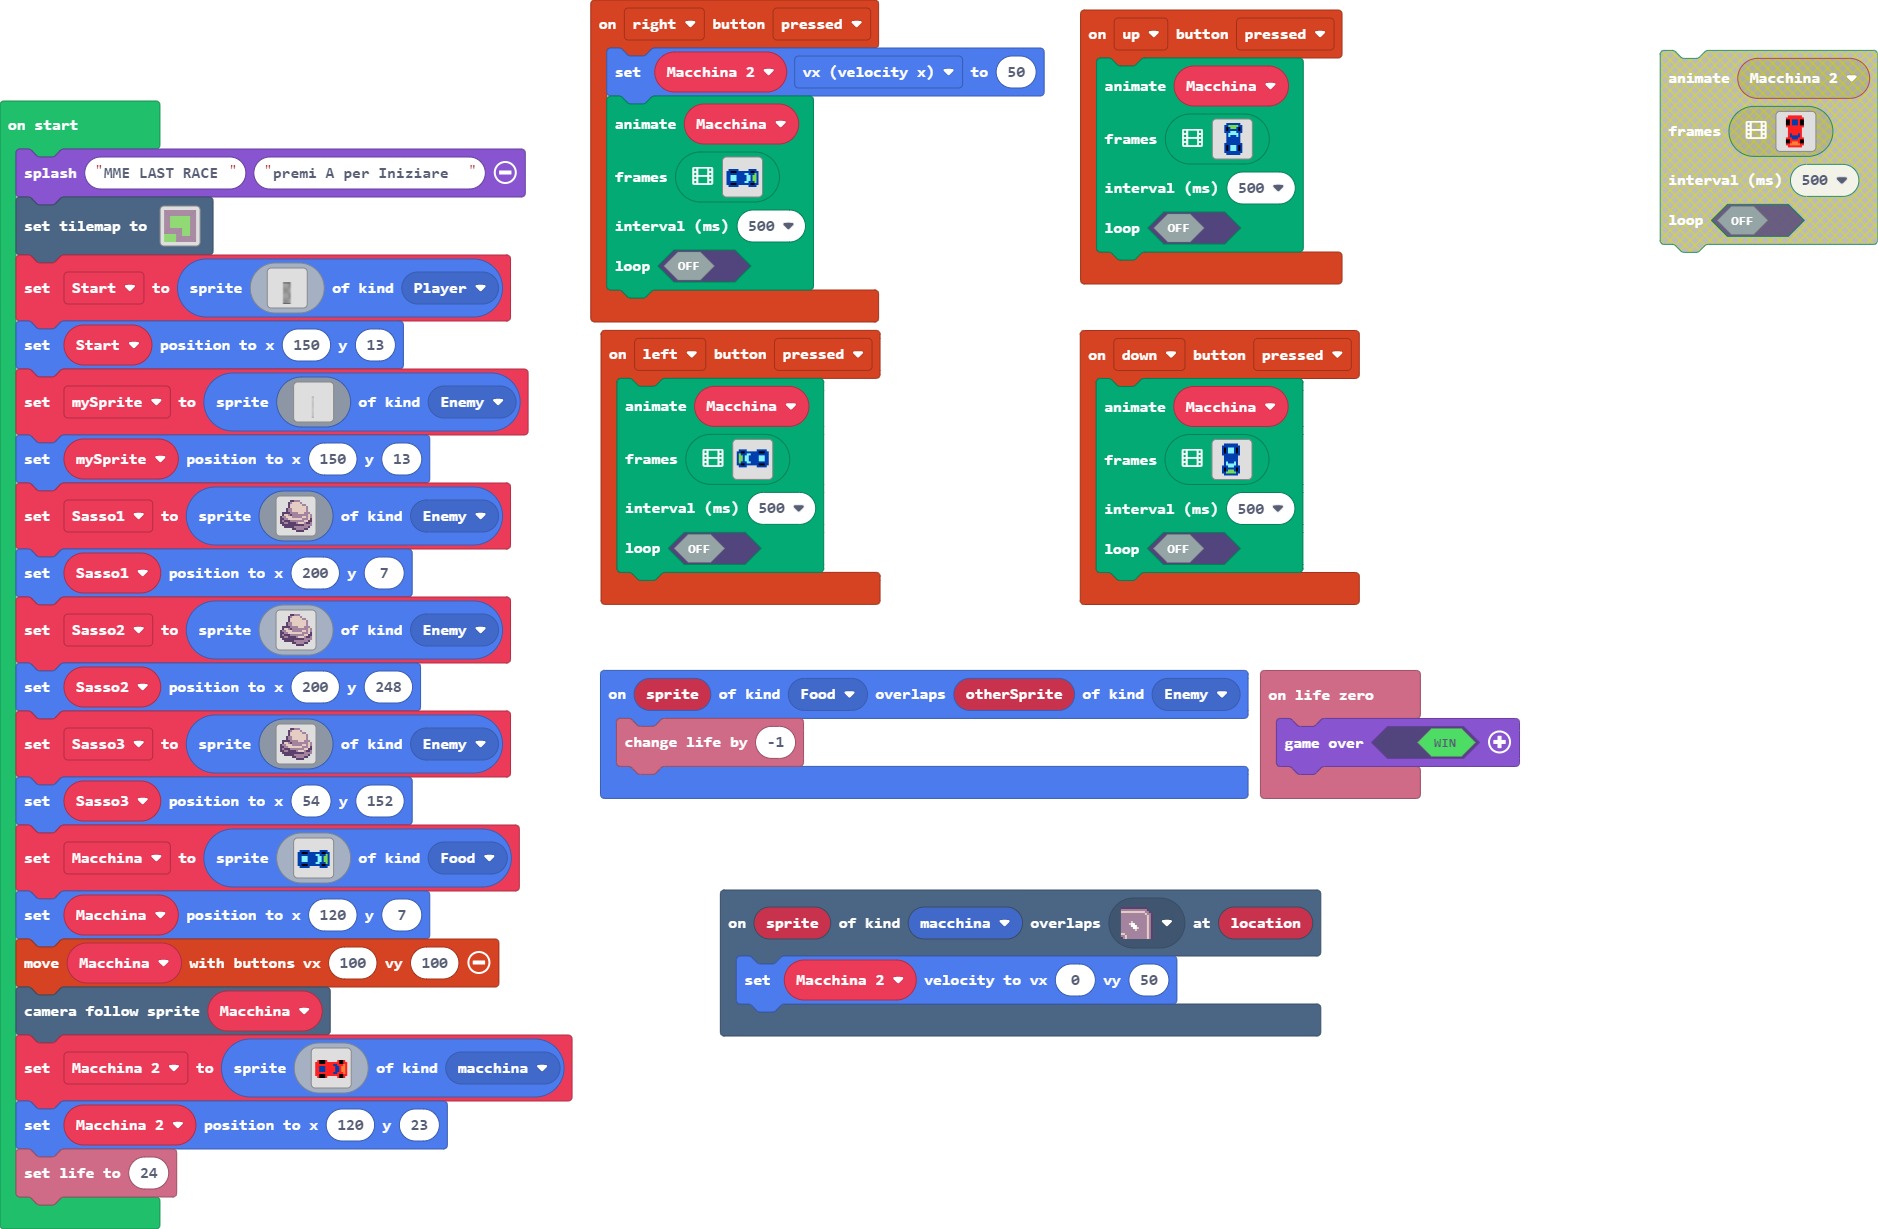
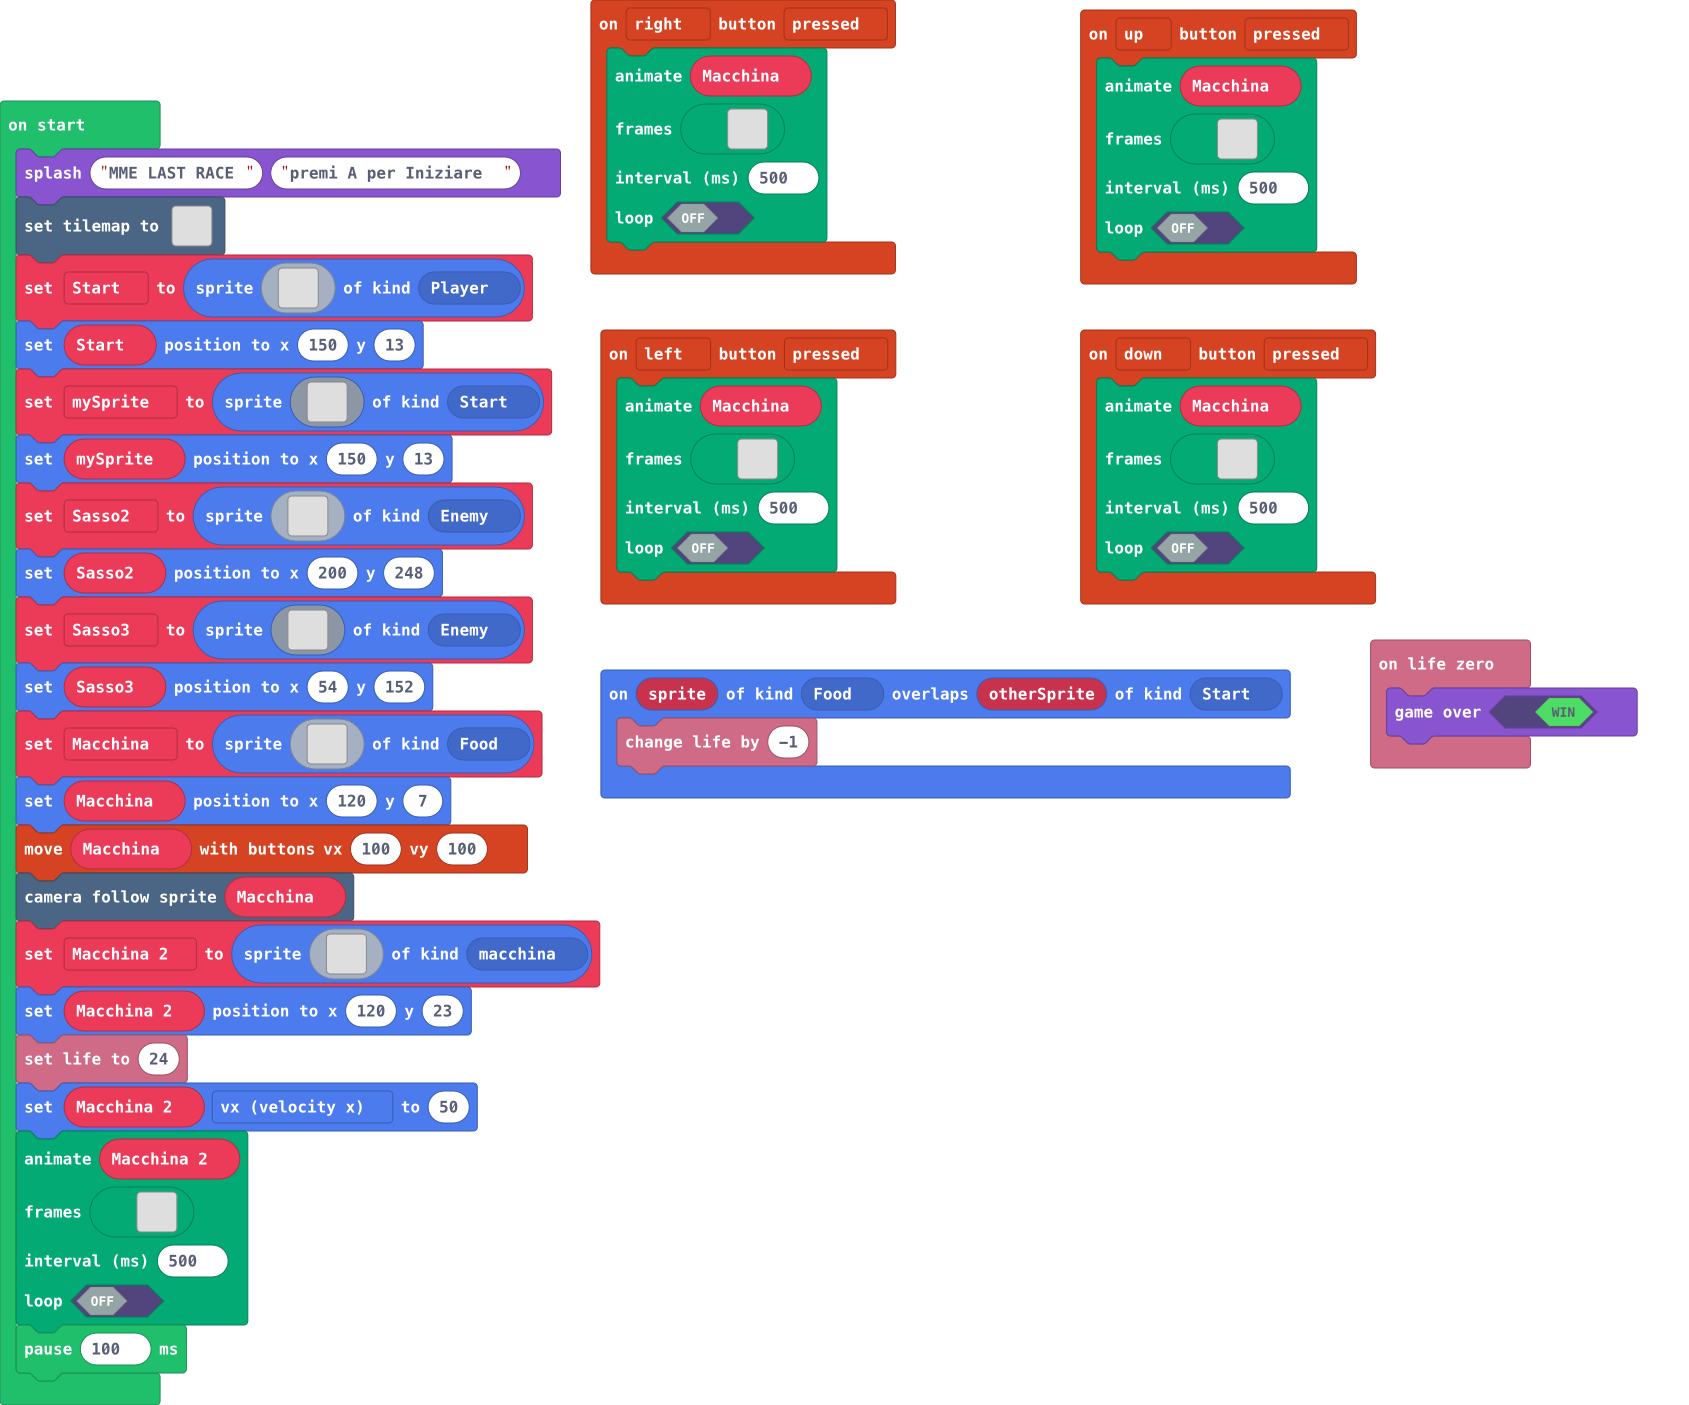
Update main.blocks, main.ts

diff --git a/main.ts b/main.ts
@@ -1,5 +1,6 @@
 namespace SpriteKind {
     export const macchina = SpriteKind.create()
+    export const Start = SpriteKind.create()
 }
 controller.up.onEvent(ControllerButtonEvent.Pressed, function () {
     animation.runImageAnimation(
@@ -26,8 +27,8 @@ controller.up.onEvent(ControllerButtonEvent.Pressed, function () {
     false
     )
 })
-scene.onOverlapTile(SpriteKind.macchina, sprites.vehicle.roadTurn2, function (sprite, location) {
-	
+sprites.onOverlap(SpriteKind.Food, SpriteKind.Start, function (sprite, otherSprite) {
+    info.changeLifeBy(-1)
 })
 controller.left.onEvent(ControllerButtonEvent.Pressed, function () {
     animation.runImageAnimation(
@@ -53,9 +54,6 @@ controller.left.onEvent(ControllerButtonEvent.Pressed, function () {
     500,
     false
     )
-})
-sprites.onOverlap(SpriteKind.Food, SpriteKind.Enemy, function (sprite, otherSprite) {
-    info.changeLifeBy(-1)
 })
 controller.right.onEvent(ControllerButtonEvent.Pressed, function () {
     animation.runImageAnimation(
@@ -257,7 +255,7 @@ let mySprite = sprites.create(img`
     f 
     c 
     f 
-    `, SpriteKind.Enemy)
+    `, SpriteKind.Start)
 mySprite.setPosition(150, 13)
 let Sasso2 = sprites.create(img`
     . . . . . c c b b b . . . . . . 
@@ -339,137 +337,6 @@ let Macchina_2 = sprites.create(img`
 Macchina_2.setPosition(120, 23)
 info.setLife(24)
 Macchina_2.vx = 50
-pause(2000)
-animation.runImageAnimation(
-Macchina_2,
-[img`
-    . . . . 2 2 2 2 2 2 2 . . . . . 
-    . . . 2 2 2 2 2 2 2 2 2 . . . . 
-    . . . f f 2 8 8 8 2 f f . . . . 
-    . . . f f 2 8 8 8 2 f f . . . . 
-    . . . f f 2 8 8 8 2 f f . . . . 
-    . . . 2 2 2 2 2 2 2 2 2 . . . . 
-    . . . . 2 2 2 2 2 2 2 . . . . . 
-    . . . . 2 2 2 2 2 2 2 . . . . . 
-    . . . . 2 2 2 2 2 2 2 . . . . . 
-    . . . . 2 8 2 2 2 8 2 . . . . . 
-    . . . . 2 8 8 8 8 8 2 . . . . . 
-    . . . 2 2 2 8 8 8 2 2 2 . . . . 
-    . . . f f 2 2 2 2 2 f f . . . . 
-    . . . f f 2 4 4 4 2 f f . . . . 
-    . . . 2 2 4 4 4 4 4 2 2 . . . . 
-    . . . . 2 2 2 2 2 2 2 . . . . . 
-    `],
-500,
-false
-)
-Macchina_2.vx = 0
-Macchina_2.vy = 50
-pause(4100)
-animation.runImageAnimation(
-Macchina_2,
-[img`
-    . . . . . . . . . . . . . . . . 
-    . . . . . . . . . . . . . . . . 
-    . . . . . . . . . . . . . . . . 
-    . 2 f f 2 . . . . . 2 f f f 2 . 
-    2 2 f f 2 2 2 2 2 2 2 f f f 2 2 
-    2 4 2 2 2 8 8 2 2 2 2 2 2 2 2 2 
-    2 4 4 2 8 8 2 2 2 2 2 8 8 8 2 2 
-    2 4 4 2 8 8 2 2 2 2 2 8 8 8 2 2 
-    2 4 4 2 8 8 2 2 2 2 2 8 8 8 2 2 
-    2 4 2 2 2 8 8 2 2 2 2 2 2 2 2 2 
-    2 2 f f 2 2 2 2 2 2 2 f f f 2 2 
-    . 2 f f 2 . . . . . 2 f f f 2 . 
-    . . . . . . . . . . . . . . . . 
-    . . . . . . . . . . . . . . . . 
-    . . . . . . . . . . . . . . . . 
-    . . . . . . . . . . . . . . . . 
-    `],
-1200,
-false
-)
-Macchina_2.vy = 0
-Macchina_2.vx = -50
-pause(2000)
-animation.runImageAnimation(
-Macchina_2,
-[img`
-    . . . . . 2 2 2 2 2 2 2 . . . . 
-    . . . . 2 2 4 4 4 4 4 2 2 . . . 
-    . . . . f f 2 4 4 4 2 f f . . . 
-    . . . . f f 2 2 2 2 2 f f . . . 
-    . . . . 2 2 2 8 8 8 2 2 2 . . . 
-    . . . . . 2 8 8 8 8 8 2 . . . . 
-    . . . . . 2 8 2 2 2 8 2 . . . . 
-    . . . . . 2 2 2 2 2 2 2 . . . . 
-    . . . . . 2 2 2 2 2 2 2 . . . . 
-    . . . . . 2 2 2 2 2 2 2 . . . . 
-    . . . . 2 2 2 2 2 2 2 2 2 . . . 
-    . . . . f f 2 8 8 8 2 f f . . . 
-    . . . . f f 2 8 8 8 2 f f . . . 
-    . . . . f f 2 8 8 8 2 f f . . . 
-    . . . . 2 2 2 2 2 2 2 2 2 . . . 
-    . . . . . 2 2 2 2 2 2 2 . . . . 
-    `],
-500,
-false
-)
-Macchina_2.vx = 0
-Macchina_2.vy = -50
-pause(1100)
-animation.runImageAnimation(
-Macchina_2,
-[img`
-    . . . . . . . . . . . . . . . . 
-    . . . . . . . . . . . . . . . . 
-    . . . . . . . . . . . . . . . . 
-    . 2 f f 2 . . . . . 2 f f f 2 . 
-    2 2 f f 2 2 2 2 2 2 2 f f f 2 2 
-    2 4 2 2 2 8 8 2 2 2 2 2 2 2 2 2 
-    2 4 4 2 8 8 2 2 2 2 2 8 8 8 2 2 
-    2 4 4 2 8 8 2 2 2 2 2 8 8 8 2 2 
-    2 4 4 2 8 8 2 2 2 2 2 8 8 8 2 2 
-    2 4 2 2 2 8 8 2 2 2 2 2 2 2 2 2 
-    2 2 f f 2 2 2 2 2 2 2 f f f 2 2 
-    . 2 f f 2 . . . . . 2 f f f 2 . 
-    . . . . . . . . . . . . . . . . 
-    . . . . . . . . . . . . . . . . 
-    . . . . . . . . . . . . . . . . 
-    . . . . . . . . . . . . . . . . 
-    `],
-500,
-false
-)
-Macchina_2.vy = 0
-Macchina_2.vx = -50
-pause(2000)
-animation.runImageAnimation(
-Macchina_2,
-[img`
-    . . . . . 2 2 2 2 2 2 2 . . . . 
-    . . . . 2 2 4 4 4 4 4 2 2 . . . 
-    . . . . f f 2 4 4 4 2 f f . . . 
-    . . . . f f 2 2 2 2 2 f f . . . 
-    . . . . 2 2 2 8 8 8 2 2 2 . . . 
-    . . . . . 2 8 8 8 8 8 2 . . . . 
-    . . . . . 2 8 2 2 2 8 2 . . . . 
-    . . . . . 2 2 2 2 2 2 2 . . . . 
-    . . . . . 2 2 2 2 2 2 2 . . . . 
-    . . . . . 2 2 2 2 2 2 2 . . . . 
-    . . . . 2 2 2 2 2 2 2 2 2 . . . 
-    . . . . f f 2 8 8 8 2 f f . . . 
-    . . . . f f 2 8 8 8 2 f f . . . 
-    . . . . f f 2 8 8 8 2 f f . . . 
-    . . . . 2 2 2 2 2 2 2 2 2 . . . 
-    . . . . . 2 2 2 2 2 2 2 . . . . 
-    `],
-500,
-false
-)
-Macchina_2.vx = 0
-Macchina_2.vy = -50
-pause(3000)
 animation.runImageAnimation(
 Macchina_2,
 [img`
@@ -493,5 +360,4 @@ Macchina_2,
 500,
 false
 )
-Macchina_2.vy = 0
-Macchina_2.vx = 50
+pause(100)
